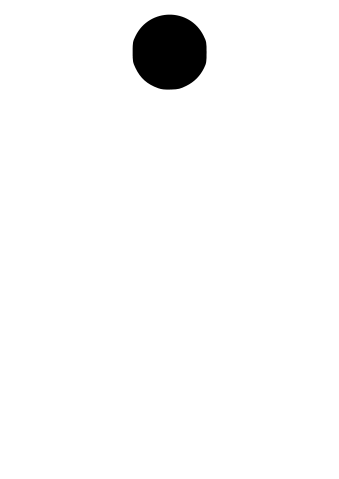
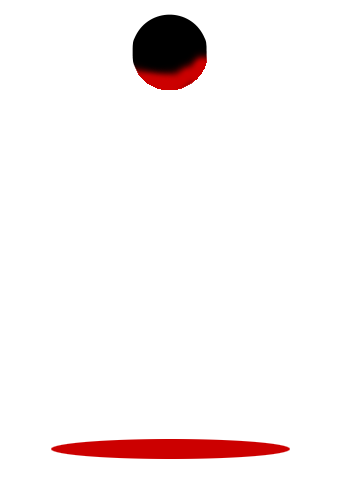
hangman now comes with blood

Changed region(s): [[0.1475, 0.9061, 0.8555, 0.9645], [0.3835, 0.0877, 0.6195, 0.2046]]

diff --git a/public/javascripts/views/lettersView.js b/public/javascripts/views/lettersView.js
@@ -1,10 +1,10 @@
-var LettersView = Backbone.View.extend({
-	el: '#letter-bank',
-	initialize: function() {
-		this.listenTo(letters, 'add', this.addOne);
-	},
-	addOne: function(model) {
-		var letterView = LetterView({model: model});
-		this.$el.append(letterView.render().el);
-	}
-});
+// var LettersView = Backbone.View.extend({
+// 	el: '#letter-bank',
+// 	initialize: function() {
+// 		this.listenTo(letters, 'add', this.addOne);
+// 	},
+// 	addOne: function(model) {
+// 		var letterView = LetterView({model: model});
+// 		this.$el.append(letterView.render().el);
+// 	}
+// });

diff --git a/public/javascripts/views/letterView.js b/public/javascripts/views/letterView.js
@@ -1,13 +1,13 @@
 var LetterView = Backbone.View.extend({
+	el: '#letters',
 	tagName: 'li',
 	className: 'letter',
 	template: _.template($('#letter-bank-template').html()),
 	initialize: function() {
-		this.listenTo(this.model, 'add', this.save);
+		this.listenTo(this.model, 'add', this.render);
 	},
 	render: function() {
-		newLetter = this.model
-		this.$el.append(this.template(newLetter));
+		this.$el.append(this.template(this.model.toJSON()));
 		return this;
 	}
 });

diff --git a/public/javascripts/views/letterInput.js b/public/javascripts/views/letterInput.js
@@ -16,8 +16,6 @@ var LetterInput = Backbone.View.extend({
 		guessValue = $('#input-field').val();
 		letter = String(guessValue);
 		currentLetter = new Letter({letter: letter});
-		letters = new Letters();
-		letters.push(currentLetter);
 		$('#input-field').val('');
 		newTries = game.get('tries');
 		currentTries = (newTries + 1);

diff --git a/public/javascripts/main.js b/public/javascripts/main.js
@@ -3,6 +3,7 @@ new GameView({model: game});
 console.log(game);
 new LetterInput();
 bodyParts = new BodyParts();
+letters = new Letters();
 $(function() {
 	
 });

diff --git a/public/index.html b/public/index.html
@@ -48,7 +48,7 @@
 </script>
 
 <script type="text/template" id="letter-bank-template">
-	
+	<%= letter %>
 </script>
 
 
